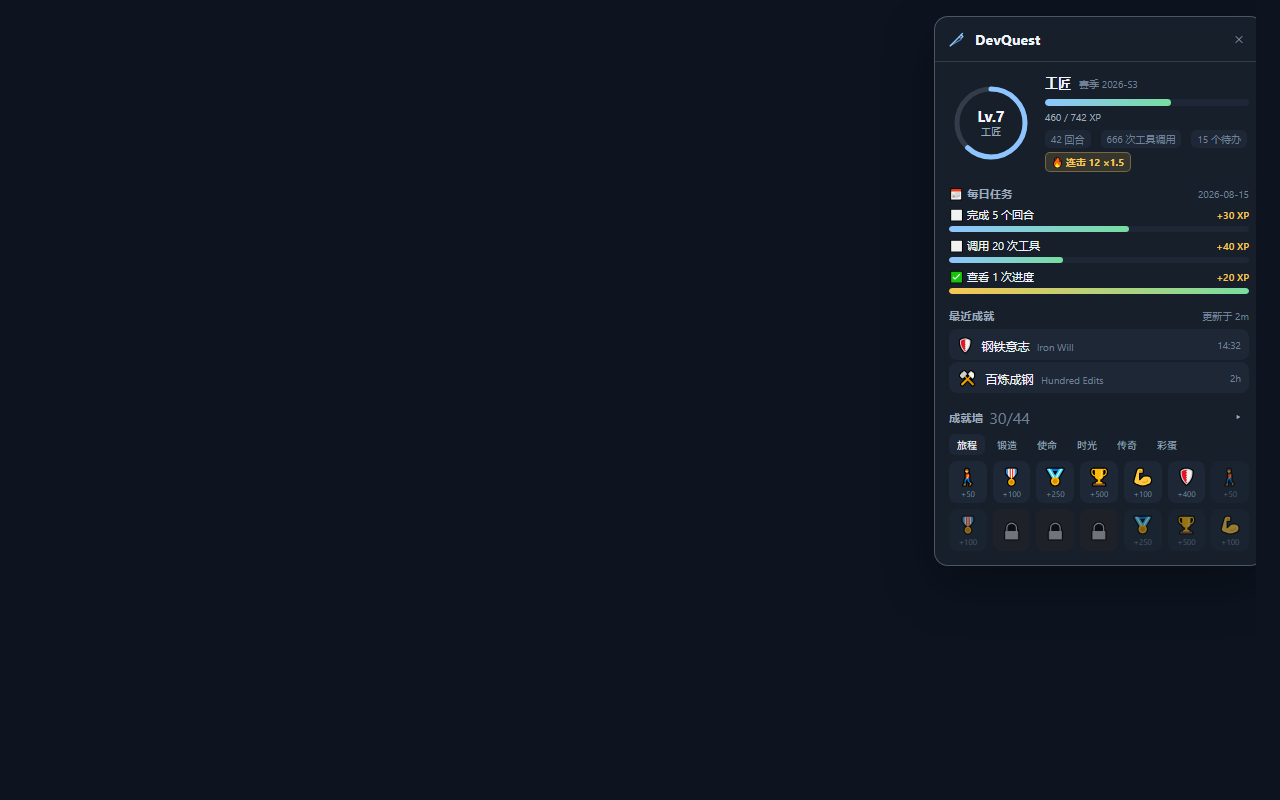
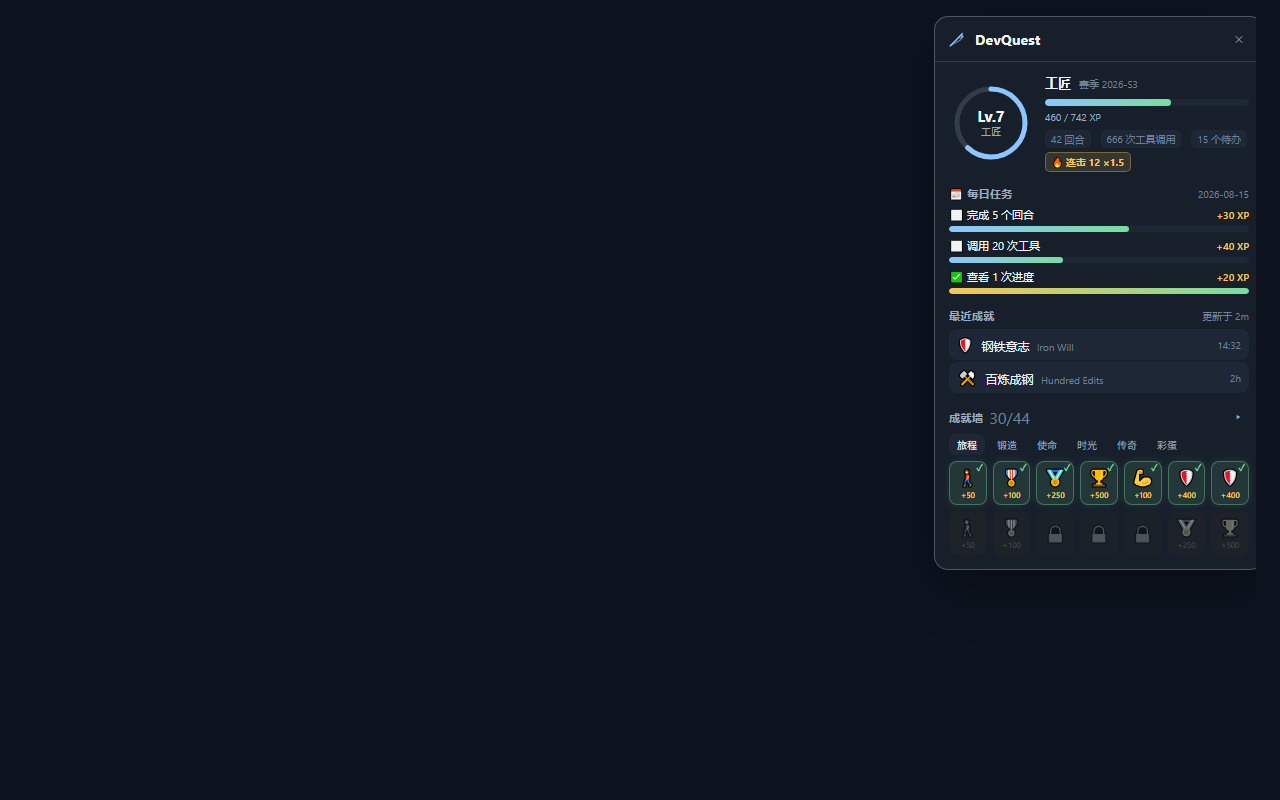
ui: 成就墙强化已获得/未获得区分
- 已解锁：绿色高亮底 + 边框 + 微光晕 + 右上角 ✓ 角标 + XP 金色
- 未解锁：灰度 0.85 + 45% 透明度
- 隐藏未解锁：全灰度 + 30% 透明度（几乎隐形）
- 截图与 mock 同步更新

Changed region(s): [[0.75, 0.5625, 0.9688, 0.6875]]

diff --git a/screenshots/mock.html b/screenshots/mock.html
@@ -1,4 +1,4 @@
-<!DOCTYPE html>
+<!DOCTYPE html>
 <html lang="zh-CN">
 <head>
 <meta charset="UTF-8">
@@ -124,12 +124,21 @@
   .tab.on { background: var(--row); color: var(--text); }
   .wall-grid { display: grid; grid-template-columns: repeat(7, 1fr); gap: 6px; }
   .cell {
+    position: relative;
     display: flex; flex-direction: column; align-items: center; justify-content: center; gap: 1px;
     padding: 4px 2px; border-radius: 8px; background: var(--row); font-size: 17px;
+    border: 1px solid transparent;
   }
-  .cell.locked { opacity: 0.55; }
-  .cell.hidden-locked { opacity: 0.5; filter: grayscale(1); }
+  .cell.unlocked {
+    background: color-mix(in srgb, var(--green) 12%, transparent);
+    border-color: color-mix(in srgb, var(--green) 38%, transparent);
+    box-shadow: 0 0 8px rgba(120, 221, 160, 0.12);
+  }
+  .cell.locked { opacity: 0.45; filter: grayscale(0.85); }
+  .cell.hidden-locked { opacity: 0.3; filter: grayscale(1); }
+  .cell .check { position: absolute; top: 1px; right: 3px; font-size: 9px; font-weight: 700; line-height: 1; color: var(--green); }
   .cell-xp { font-size: 8px; color: var(--quiet); }
+  .cell.unlocked .cell-xp { color: var(--gold); font-weight: 600; }
 
   /* ===== toast ===== */
   .toast {
@@ -251,12 +260,13 @@
           <button class="tab">时光</button><button class="tab">传奇</button><button class="tab">彩蛋</button>
         </div>
         <div class="wall-grid">
-          <div class="cell">🚶<span class="cell-xp">+50</span></div>
-          <div class="cell">🎖<span class="cell-xp">+100</span></div>
-          <div class="cell">🏅<span class="cell-xp">+250</span></div>
-          <div class="cell">🏆<span class="cell-xp">+500</span></div>
-          <div class="cell">💪<span class="cell-xp">+100</span></div>
-          <div class="cell">🛡<span class="cell-xp">+400</span></div>
+          <div class="cell unlocked">🚶<span class="check">✓</span><span class="cell-xp">+50</span></div>
+          <div class="cell unlocked">🎖<span class="check">✓</span><span class="cell-xp">+100</span></div>
+          <div class="cell unlocked">🏅<span class="check">✓</span><span class="cell-xp">+250</span></div>
+          <div class="cell unlocked">🏆<span class="check">✓</span><span class="cell-xp">+500</span></div>
+          <div class="cell unlocked">💪<span class="check">✓</span><span class="cell-xp">+100</span></div>
+          <div class="cell unlocked">🛡<span class="check">✓</span><span class="cell-xp">+400</span></div>
+          <div class="cell unlocked">🛡<span class="check">✓</span><span class="cell-xp">+400</span></div>
           <div class="cell locked">🚶<span class="cell-xp">+50</span></div>
           <div class="cell locked">🎖<span class="cell-xp">+100</span></div>
           <div class="cell hidden-locked">🔒</div>
@@ -264,7 +274,6 @@
           <div class="cell hidden-locked">🔒</div>
           <div class="cell locked">🏅<span class="cell-xp">+250</span></div>
           <div class="cell locked">🏆<span class="cell-xp">+500</span></div>
-          <div class="cell locked">💪<span class="cell-xp">+100</span></div>
         </div>
       </div>
 

diff --git a/lib/types/client/DevQuestPanel.js b/lib/types/client/DevQuestPanel.js
@@ -265,10 +265,12 @@ export function DevQuestPanelCard(props) {
                                             const locked = !a.unlocked;
                                             const visible = a.unlocked || !a.hidden;
                                             return _jsxs("span", { title: visible ? `${a.name.zh} ${a.name.en} — ${a.description.zh}（+${a.xp} XP）` : '???', style: {
+                                                    position: 'relative',
                                                     ...wallCellStyle,
-                                                    ...(locked ? wallCellLockedStyle : {}),
-                                                    ...(a.hidden && locked ? { filter: 'grayscale(1)', opacity: 0.5 } : {}),
-                                                }, children: [_jsx("span", { style: { fontSize: 17 }, children: visible ? a.icon : '🔒' }), !a.hidden && _jsxs("span", { style: wallXpStyle, children: ["+", a.xp] })] }, a.id);
+                                                    ...(locked
+                                                        ? (a.hidden ? wallCellHiddenLockedStyle : wallCellLockedStyle)
+                                                        : wallCellUnlockedStyle),
+                                                }, children: [a.unlocked && _jsx("span", { style: wallCheckStyle, children: "\u2713" }), _jsx("span", { style: { fontSize: 17, lineHeight: 1.2 }, children: visible ? a.icon : '🔒' }), !a.hidden && (_jsxs("span", { style: { ...wallXpStyle, ...(a.unlocked ? wallXpUnlockedStyle : {}) }, children: ["+", a.xp] }))] }, a.id);
                                         }) })] })] })] })] });
 }
 // ---------------------------------------------------------------------------
@@ -459,9 +461,37 @@ const wallCellStyle = {
     borderRadius: 8,
     background: TONE.row,
     cursor: 'default',
+    border: '1px solid transparent',
+    transition: 'opacity .15s ease',
 };
-const wallCellLockedStyle = { opacity: 0.55 };
+/** 已解锁：绿色高亮底 + 边框，图标全彩。 */
+const wallCellUnlockedStyle = {
+    background: 'color-mix(in srgb, var(--dsw-alias-state-success-primary, #78dda0) 12%, transparent)',
+    border: '1px solid color-mix(in srgb, var(--dsw-alias-state-success-primary, #78dda0) 38%, transparent)',
+    boxShadow: '0 0 8px rgba(120, 221, 160, 0.12)',
+};
+/** 未解锁：灰度 + 压暗，一眼可辨。 */
+const wallCellLockedStyle = {
+    opacity: 0.45,
+    filter: 'grayscale(0.85)',
+};
+/** 隐藏成就未解锁：更深的灰，几乎隐形。 */
+const wallCellHiddenLockedStyle = {
+    opacity: 0.3,
+    filter: 'grayscale(1)',
+};
+/** 已解锁角标 ✓。 */
+const wallCheckStyle = {
+    position: 'absolute',
+    top: 1,
+    right: 3,
+    fontSize: 9,
+    fontWeight: 700,
+    lineHeight: 1,
+    color: TONE.green,
+};
 const wallXpStyle = { fontSize: 8, color: TONE.quiet };
+const wallXpUnlockedStyle = { color: TONE.gold, fontWeight: 600 };
 const emptyStyle = { fontSize: 11, color: TONE.quiet, padding: '8px 0' };
 const toastStackStyle = {
     position: 'fixed',

diff --git a/lib/client.js b/lib/client.js
@@ -646,20 +646,30 @@ window.__ModuleLoader__.load({
 									return /* @__PURE__ */ (0, react_jsx_runtime.jsxs)("span", {
 										title: visible ? `${a.name.zh} ${a.name.en} — ${a.description.zh}（+${a.xp} XP）` : "???",
 										style: {
+											position: "relative",
 											...wallCellStyle,
-											...locked ? wallCellLockedStyle : {},
-											...a.hidden && locked ? {
-												filter: "grayscale(1)",
-												opacity: .5
-											} : {}
+											...locked ? a.hidden ? wallCellHiddenLockedStyle : wallCellLockedStyle : wallCellUnlockedStyle
 										},
-										children: [/* @__PURE__ */ (0, react_jsx_runtime.jsx)("span", {
-											style: { fontSize: 17 },
-											children: visible ? a.icon : "🔒"
-										}), !a.hidden && /* @__PURE__ */ (0, react_jsx_runtime.jsxs)("span", {
-											style: wallXpStyle,
-											children: ["+", a.xp]
-										})]
+										children: [
+											a.unlocked && /* @__PURE__ */ (0, react_jsx_runtime.jsx)("span", {
+												style: wallCheckStyle,
+												children: "✓"
+											}),
+											/* @__PURE__ */ (0, react_jsx_runtime.jsx)("span", {
+												style: {
+													fontSize: 17,
+													lineHeight: 1.2
+												},
+												children: visible ? a.icon : "🔒"
+											}),
+											!a.hidden && /* @__PURE__ */ (0, react_jsx_runtime.jsxs)("span", {
+												style: {
+													...wallXpStyle,
+													...a.unlocked ? wallXpUnlockedStyle : {}
+												},
+												children: ["+", a.xp]
+											})
+										]
 									}, a.id);
 								})
 							})] })]
@@ -1071,12 +1081,43 @@ window.__ModuleLoader__.load({
 			padding: "4px 2px",
 			borderRadius: 8,
 			background: TONE.row,
-			cursor: "default"
+			cursor: "default",
+			border: "1px solid transparent",
+			transition: "opacity .15s ease"
 		};
-		const wallCellLockedStyle = { opacity: .55 };
+		/** 已解锁：绿色高亮底 + 边框，图标全彩。 */
+		const wallCellUnlockedStyle = {
+			background: "color-mix(in srgb, var(--dsw-alias-state-success-primary, #78dda0) 12%, transparent)",
+			border: "1px solid color-mix(in srgb, var(--dsw-alias-state-success-primary, #78dda0) 38%, transparent)",
+			boxShadow: "0 0 8px rgba(120, 221, 160, 0.12)"
+		};
+		/** 未解锁：灰度 + 压暗，一眼可辨。 */
+		const wallCellLockedStyle = {
+			opacity: .45,
+			filter: "grayscale(0.85)"
+		};
+		/** 隐藏成就未解锁：更深的灰，几乎隐形。 */
+		const wallCellHiddenLockedStyle = {
+			opacity: .3,
+			filter: "grayscale(1)"
+		};
+		/** 已解锁角标 ✓。 */
+		const wallCheckStyle = {
+			position: "absolute",
+			top: 1,
+			right: 3,
+			fontSize: 9,
+			fontWeight: 700,
+			lineHeight: 1,
+			color: TONE.green
+		};
 		const wallXpStyle = {
 			fontSize: 8,
 			color: TONE.quiet
+		};
+		const wallXpUnlockedStyle = {
+			color: TONE.gold,
+			fontWeight: 600
 		};
 		const emptyStyle = {
 			fontSize: 11,

diff --git a/src/client/DevQuestPanel.tsx b/src/client/DevQuestPanel.tsx
@@ -429,13 +429,18 @@ export function DevQuestPanelCard(
                 key={a.id}
                 title={visible ? `${a.name.zh} ${a.name.en} — ${a.description.zh}（+${a.xp} XP）` : '???'}
                 style={{
+                  position: 'relative',
                   ...wallCellStyle,
-                  ...(locked ? wallCellLockedStyle : {}),
-                  ...(a.hidden && locked ? { filter: 'grayscale(1)', opacity: 0.5 } : {}),
+                  ...(locked
+                    ? (a.hidden ? wallCellHiddenLockedStyle : wallCellLockedStyle)
+                    : wallCellUnlockedStyle),
                 }}
               >
-                <span style={{ fontSize: 17 }}>{visible ? a.icon : '🔒'}</span>
-                {!a.hidden && <span style={wallXpStyle}>+{a.xp}</span>}
+                {a.unlocked && <span style={wallCheckStyle}>✓</span>}
+                <span style={{ fontSize: 17, lineHeight: 1.2 }}>{visible ? a.icon : '🔒'}</span>
+                {!a.hidden && (
+                  <span style={{ ...wallXpStyle, ...(a.unlocked ? wallXpUnlockedStyle : {}) }}>+{a.xp}</span>
+                )}
               </span>
             })}
           </div>
@@ -728,11 +733,43 @@ const wallCellStyle: CSSProperties = {
   borderRadius: 8,
   background: TONE.row,
   cursor: 'default',
+  border: '1px solid transparent',
+  transition: 'opacity .15s ease',
 }
 
-const wallCellLockedStyle: CSSProperties = { opacity: 0.55 }
+/** 已解锁：绿色高亮底 + 边框，图标全彩。 */
+const wallCellUnlockedStyle: CSSProperties = {
+  background: 'color-mix(in srgb, var(--dsw-alias-state-success-primary, #78dda0) 12%, transparent)',
+  border: '1px solid color-mix(in srgb, var(--dsw-alias-state-success-primary, #78dda0) 38%, transparent)',
+  boxShadow: '0 0 8px rgba(120, 221, 160, 0.12)',
+}
+
+/** 未解锁：灰度 + 压暗，一眼可辨。 */
+const wallCellLockedStyle: CSSProperties = {
+  opacity: 0.45,
+  filter: 'grayscale(0.85)',
+}
+
+/** 隐藏成就未解锁：更深的灰，几乎隐形。 */
+const wallCellHiddenLockedStyle: CSSProperties = {
+  opacity: 0.3,
+  filter: 'grayscale(1)',
+}
+
+/** 已解锁角标 ✓。 */
+const wallCheckStyle: CSSProperties = {
+  position: 'absolute',
+  top: 1,
+  right: 3,
+  fontSize: 9,
+  fontWeight: 700,
+  lineHeight: 1,
+  color: TONE.green,
+}
 
 const wallXpStyle: CSSProperties = { fontSize: 8, color: TONE.quiet }
+
+const wallXpUnlockedStyle: CSSProperties = { color: TONE.gold, fontWeight: 600 }
 
 const emptyStyle: CSSProperties = { fontSize: 11, color: TONE.quiet, padding: '8px 0' }
 
